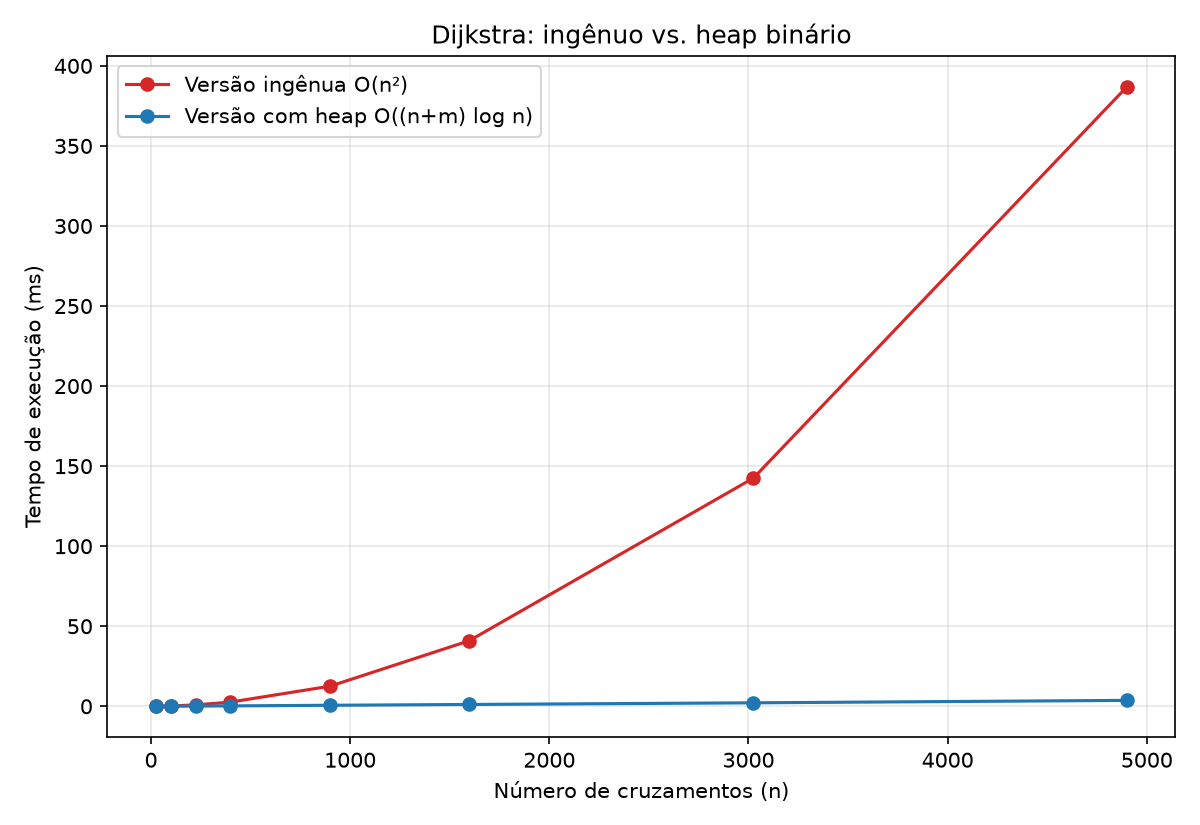
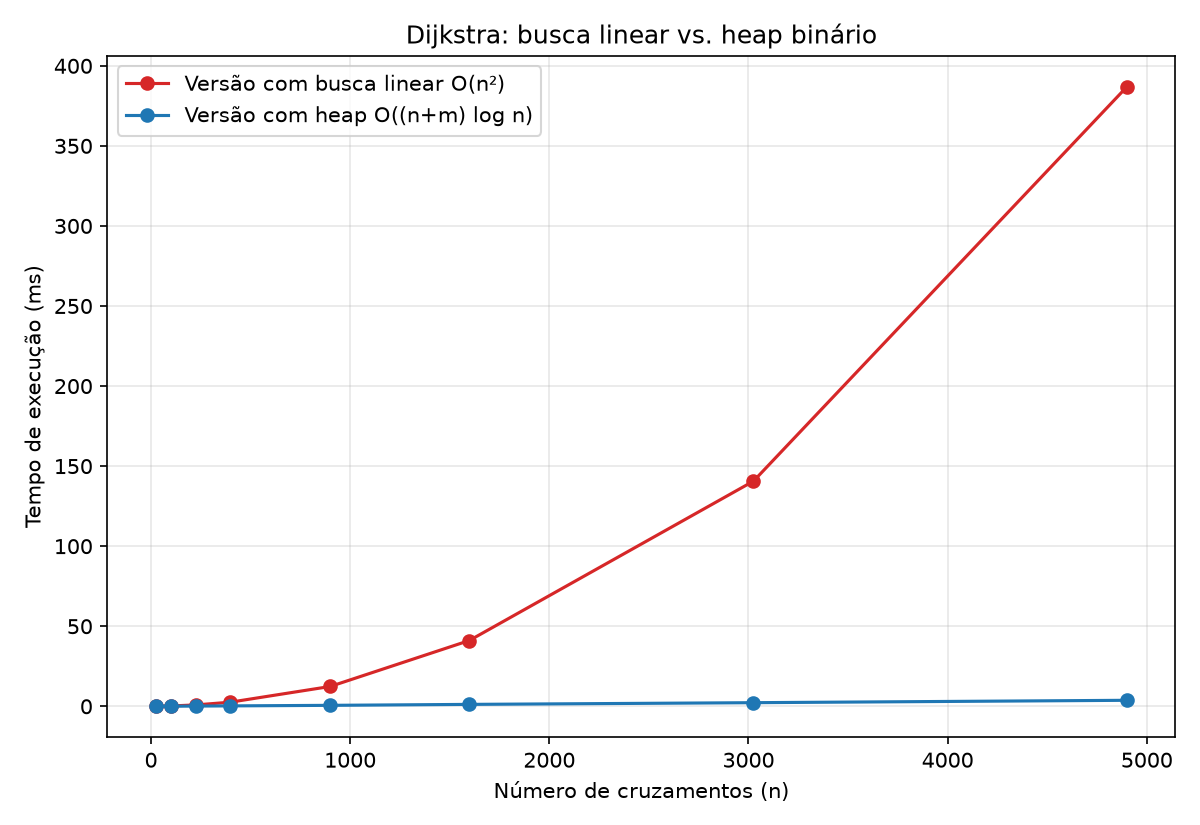
adiciona interatividade

diff --git a/interactive.py b/interactive.py
@@ -1,0 +1,96 @@
+from dijkstra import dijkstra_heap, reconstruir_caminho
+from enderecos import buscar_enderecos
+from visualize import desenhar_rota
+
+
+def listar_todos(endereco_para_no):
+    print("\nEndereços disponíveis:")
+    for endereco in sorted(endereco_para_no):
+        print(f"  - {endereco}")
+    print()
+
+
+def escolher_endereco(mensagem, endereco_para_no):
+    while True:
+        query = input(mensagem).strip()
+
+        if query.lower() in ("sair", "exit", "sair()"):
+            return None
+
+        if query.lower() in ("listar", "listar endereços", "listar enderecos"):
+            listar_todos(endereco_para_no)
+            continue
+
+        if not query:
+            print("Digite parte de um endereço (ex: 'Acácias') ou 'listar'.")
+            continue
+
+        resultados = buscar_enderecos(query, endereco_para_no)
+
+        if not resultados:
+            print("Nenhum endereço encontrado com esse texto. "
+                  "Tente outro trecho ou digite 'listar' para ver todos.\n")
+            continue
+
+        if len(resultados) == 1:
+            endereco, no = resultados[0]
+            print(f"Endereço encontrado: {endereco}\n")
+            return no
+
+        print("\nMais de um endereço encontrado, escolha um pelo número:")
+        for idx, (endereco, no) in enumerate(resultados, start=1):
+            print(f"  [{idx}] {endereco}")
+
+        escolha = input("Número da opção: ").strip()
+        if escolha.isdigit() and 1 <= int(escolha) <= len(resultados):
+            endereco, no = resultados[int(escolha) - 1]
+            print(f"Selecionado: {endereco}\n")
+            return no
+
+        print("Opção inválida, tente novamente.\n")
+
+
+def executar_modo_interativo(G, no_para_endereco, endereco_para_no):
+    print("=" * 60)
+    print(" Sistema de Rotas — Bairro Fictício")
+    print(" Digite parte de um endereço para buscar (ex: 'Brasil').")
+    print(" Digite 'listar' para ver todos os endereços, ou 'sair' para encerrar.")
+    print("=" * 60)
+
+    contador_rotas = 0
+
+    while True:
+        origem_no = escolher_endereco("\nEndereço de ORIGEM: ", endereco_para_no)
+        if origem_no is None:
+            break
+
+        destino_no = escolher_endereco("Endereço de DESTINO: ", endereco_para_no)
+        if destino_no is None:
+            break
+
+        if origem_no == destino_no:
+            print("Origem e destino são o mesmo endereço.\n")
+            continue
+
+        dist, pred = dijkstra_heap(G, origem_no)
+        caminho = reconstruir_caminho(pred, origem_no, destino_no)
+
+        if caminho is None:
+            print("Não existe rota possível entre esses dois endereços "
+                  "neste cenário (ruas fechadas isolaram a região).\n")
+            continue
+
+        print("\nRota encontrada:")
+        for no in caminho:
+            print(f"  -> {no_para_endereco[no]}")
+        print(f"\nTempo total estimado: {dist[destino_no]:.1f} minutos")
+
+        salvar = input("\nSalvar imagem da rota? (s/n): ").strip().lower()
+        if salvar == "s":
+            contador_rotas += 1
+            nome_arquivo = f"rota_{contador_rotas}.png"
+            desenhar_rota(G, caminho, origem_no, destino_no,
+                          dist[destino_no], nome_arquivo)
+            print(f"Imagem salva em {nome_arquivo}")
+
+    print("\nEncerrando. Até a próxima!")

diff --git a/main.py b/main.py
@@ -1,43 +1,54 @@
 from scenario import gerar_bairro
+from enderecos import gerar_enderecos
+from interactive import executar_modo_interativo
 from dijkstra import dijkstra_naive, dijkstra_heap, reconstruir_caminho
 from visualize import desenhar_rota
 from benchmark import rodar_benchmark, plotar
 
 
-def main():
-    print("=== 1. Gerando o cenário (bairro fictício) ===")
-    G = gerar_bairro(linhas=8, colunas=8, seed=7)
-    print(f"Cruzamentos: {G.number_of_nodes()}  |  Ruas: {G.number_of_edges()}\n")
+def demo_automatica(G, no_para_endereco):
+    print("=== Demonstração automática ===")
+    origem = list(G.nodes)[0]
+    destino = list(G.nodes)[-1]
 
-    origem = "C0-0"
-    destino = "C7-7"
-
-    print(f"=== 2. Calculando rota de menor tempo: {origem} -> {destino} ===")
     dist, pred = dijkstra_heap(G, origem)
     caminho = reconstruir_caminho(pred, origem, destino)
 
-    if caminho is None:
-        print("Não há rota possível entre origem e destino neste cenário.")
-        return
-
-    print("Caminho encontrado:")
-    print(" -> ".join(caminho))
+    print(f"De {no_para_endereco[origem]} até {no_para_endereco[destino]}:")
+    for no in caminho:
+        print(f"  -> {no_para_endereco[no]}")
     print(f"Tempo total estimado: {dist[destino]:.1f} minutos\n")
 
-    print("=== 3. Conferindo resultado com a versão ingênua ===")
     dist_naive, _ = dijkstra_naive(G, origem)
     assert abs(dist_naive[destino] - dist[destino]) < 1e-9, "Resultados divergem!"
-    print("OK — as duas implementações concordam no custo mínimo.\n")
+    print("Conferido: as duas implementações concordam no custo mínimo.\n")
 
-    print("=== 4. Gerando imagem da rota ===")
     desenhar_rota(G, caminho, origem, destino, dist[destino], "rota.png")
-    print("Salvo em rota.png\n")
+    print("Imagem salva em rota.png\n")
 
-    print("=== 5. Rodando benchmark ingênuo vs. heap ===")
+    print("=== Rodando benchmark busca linear vs. heap ===")
     tamanhos = [5, 10, 15, 20, 30, 40, 55, 70]
     n, t_naive, t_heap = rodar_benchmark(tamanhos)
     plotar(n, t_naive, t_heap, "benchmark.png")
-    print("Salvo em benchmark.png")
+    print("Gráfico salvo em benchmark.png")
+
+
+def main():
+    G = gerar_bairro(linhas=8, colunas=8, seed=7)
+    no_para_endereco, endereco_para_no = gerar_enderecos(G)
+
+    print("Bairro fictício gerado.")
+    print(f"Cruzamentos: {G.number_of_nodes()}  |  Ruas: {G.number_of_edges()}\n")
+
+    print("Escolha o modo:")
+    print("  [1] Interativo — digitar endereços de origem/destino no terminal")
+    print("  [2] Demonstração automática + benchmark (gera rota.png e benchmark.png)")
+    escolha = input("Opção: ").strip()
+
+    if escolha == "2":
+        demo_automatica(G, no_para_endereco)
+    else:
+        executar_modo_interativo(G, no_para_endereco, endereco_para_no)
 
 
 if __name__ == "__main__":

diff --git a/enderecos.py b/enderecos.py
@@ -1,0 +1,39 @@
+RUAS = [
+    "Gotham City",
+    "Coast City",
+    "Metropoles",
+    "Central City",
+    "Star City",
+    "Bludhaven",
+    "Smallville",
+    "Vila Sésamo",
+    "Tatooine",
+    "Naboo",
+]
+
+
+def _parse_no(nome_no):
+    i_str, j_str = nome_no[1:].split("-")
+    return int(i_str), int(j_str)
+
+
+def gerar_enderecos(G):
+    no_para_endereco = {}
+    for no in G.nodes:
+        i, j = _parse_no(no)
+        rua = RUAS[i % len(RUAS)]
+        numero = (j + 1) * 10
+        no_para_endereco[no] = f"{rua}, {numero}"
+
+    endereco_para_no = {v: k for k, v in no_para_endereco.items()}
+    return no_para_endereco, endereco_para_no
+
+
+def buscar_enderecos(query, endereco_para_no):
+    query_norm = query.strip().lower()
+    resultados = [
+        (endereco, no)
+        for endereco, no in endereco_para_no.items()
+        if query_norm in endereco.lower()
+    ]
+    return sorted(resultados)

diff --git a/benchmark.py b/benchmark.py
@@ -40,11 +40,11 @@ def rodar_benchmark(tamanhos):
 
 def plotar(tamanhos, naive, heap, caminho_saida):
     plt.figure(figsize=(8, 5.5))
-    plt.plot(tamanhos, naive, "o-", label="Versão ingênua O(n²)", color="#d62728")
+    plt.plot(tamanhos, naive, "o-", label="Versão com busca linear O(n²)", color="#d62728")
     plt.plot(tamanhos, heap, "o-", label="Versão com heap O((n+m) log n)", color="#1f77b4")
     plt.xlabel("Número de cruzamentos (n)")
     plt.ylabel("Tempo de execução (ms)")
-    plt.title("Dijkstra: ingênuo vs. heap binário")
+    plt.title("Dijkstra: busca linear vs. heap binário")
     plt.legend()
     plt.grid(alpha=0.3)
     plt.tight_layout()
